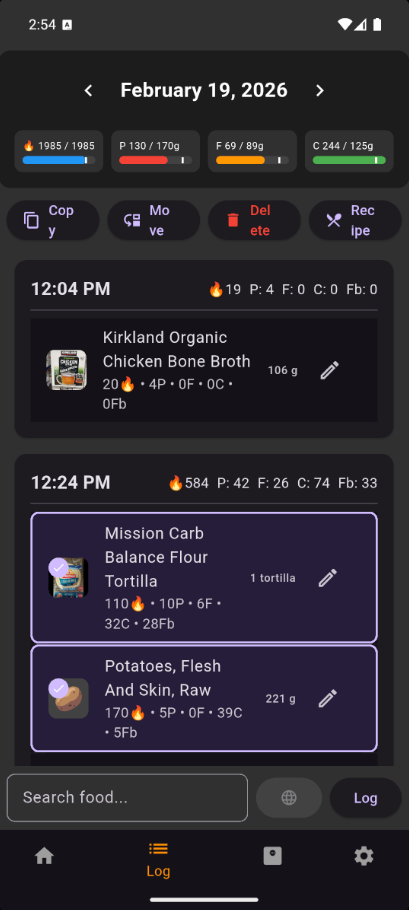
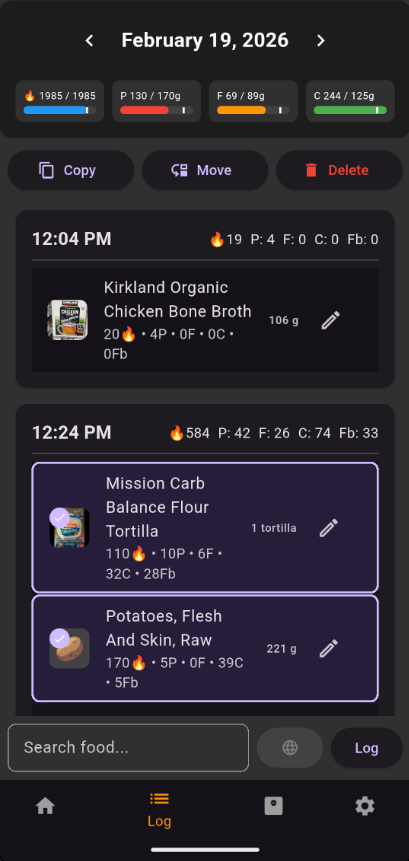
Removed Log multiselect Recipe button

diff --git a/lib/screens/log_screen.dart b/lib/screens/log_screen.dart
@@ -300,17 +300,6 @@ class _LogScreenState extends State<LogScreen> with RouteAware {
               style: ElevatedButton.styleFrom(foregroundColor: Colors.red),
             ),
           ),
-          const SizedBox(width: 8.0),
-          Expanded(
-            child: ElevatedButton.icon(
-              onPressed: () {
-                // TODO: Implement make recipe functionality (1.2.7.6.4)
-                logProvider.clearSelection();
-              },
-              icon: const Icon(Icons.restaurant_menu),
-              label: const Text('Recipe'),
-            ),
-          ),
         ],
       ),
     );
